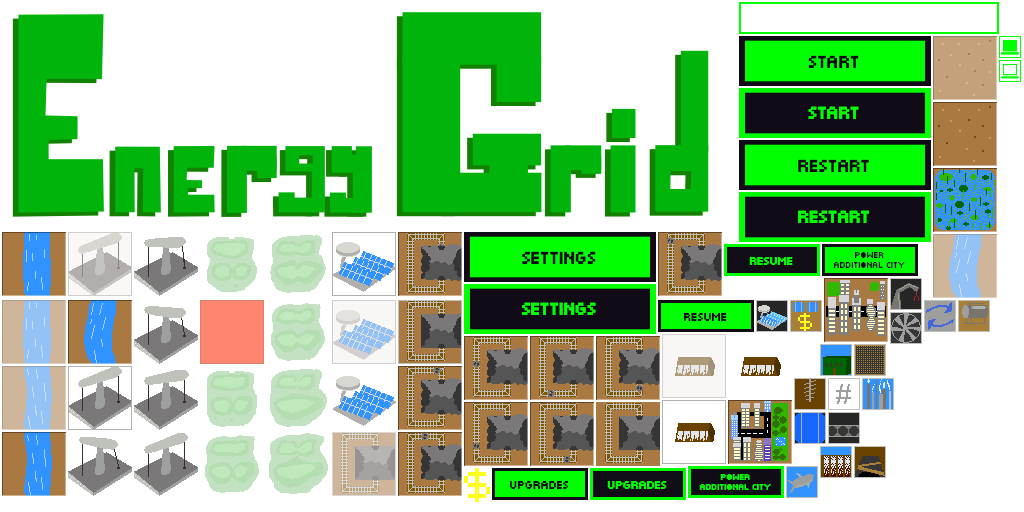
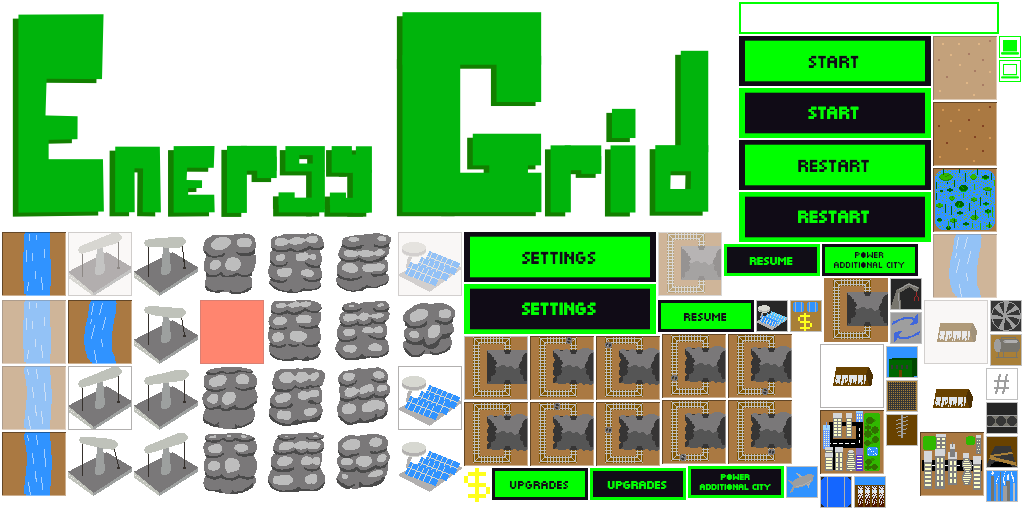
updated pollution animation

Changed region(s): [[0.1875, 0.4375, 0.4688, 0.9688], [0.625, 0.5312, 1.0, 1.0], [0.625, 0.4375, 0.7188, 0.5938]]

diff --git a/src/systems/build_gatherer.rs b/src/systems/build_gatherer.rs
@@ -1,7 +1,7 @@
 use components::ui::WalletUI;
 use components::{ui::TutorialUI, upgrade::Buff, Actions, AnimationSheet, Button, ClickSound,
                  Color, EffectedByPollutionTiles, EntityLookup, Gatherer, GathererPositions,
-                 GathererType, Input, Node, ResearchedBuffs, SelectedTile, Sprite, Text, Tile,
+                 GathererType, Input, Node, PollutedTiles, ResearchedBuffs, SelectedTile, Sprite, Text, Tile,
                  TileNodes, TileType, Transform, TutorialStep, Wallet};
 use entities::tutorial;
 use specs::{Entities, Join, Read, ReadStorage, System, Write, WriteStorage};
@@ -37,6 +37,7 @@ impl<'a> System<'a> for BuildGatherer {
         Write<'a, GathererPositions>,
         Read<'a, Input>,
         WriteStorage<'a, Node>,
+        Write<'a, PollutedTiles>,
         Read<'a, TileNodes>,
         Read<'a, ResearchedBuffs>,
         ReadStorage<'a, SelectedTile>,
@@ -63,6 +64,7 @@ impl<'a> System<'a> for BuildGatherer {
             mut gatherer_positions_storage,
             input_storage,
             mut nodes_storage,
+            mut polluted_tiles_storage,
             tile_nodes_storage,
             researched_buffs_storage,
             selected_tile_storage,
@@ -260,13 +262,22 @@ impl<'a> System<'a> for BuildGatherer {
                             if tile_type != TileType::Open {
                                 pollution += gatherer_type.get_pollution_amount();
 
+                                let selected_tile_x = selected_tile_x + (i as f32) * Tile::get_size();
+                                let selected_tile_y = selected_tile_y + (j as f32) * Tile::get_size();
+
+                                if polluted_tiles_storage.contains(&(selected_tile_x as i32, selected_tile_y as i32)) {
+                                    continue
+                                }
+
+                                polluted_tiles_storage.insert((selected_tile_x as i32, selected_tile_y as i32));
+
                                 let pollution_entity = entities.create();
                                 transform_storage
                                     .insert(
                                         pollution_entity,
                                         Transform::visible(
-                                            selected_tile_x + (i as f32) * Tile::get_size(),
-                                            selected_tile_y + (j as f32) * Tile::get_size(),
+                                            selected_tile_x,
+                                            selected_tile_y,
                                             3.0,
                                             64,
                                             64,
@@ -279,9 +290,9 @@ impl<'a> System<'a> for BuildGatherer {
                                 let mut animation = AnimationSheet::new(0.1);
                                 animation.add_animation(
                                     "default".to_string(),
-                                    [1, 2, 3, 4, 5, 6, 7, 6, 5, 4, 3, 2]
+                                    ["01", "02", "03", "04", "05", "06", "07", "08", "09", "10", "11", "12"]
                                         .iter()
-                                        .map(|n| format!("pollution_{}.png", n))
+                                        .map(|n| format!("pollution_grey_{}.png", n))
                                         .collect(),
                                 );
                                 animation.set_current_animation("default".to_string());

diff --git a/src/state/play_state.rs b/src/state/play_state.rs
@@ -1,4 +1,4 @@
-use std::collections::HashMap;
+use std::collections::{HashMap, HashSet};
 use std::path::Path;
 
 use conrod::{Ui, UiBuilder};
@@ -8,7 +8,7 @@ use state::State;
 
 use components::{ui::WalletUI, upgrade, upgrade::Buff, Button, CityPowerState, Color,
                  CurrentState, EntityLookup, GathererPositions, GatheringRate, InternalState,
-                 Node, PowerBar, Rect, ResearchedBuffs, ResearchingEntities, Resources,
+                 Node, PollutedTiles, PowerBar, Rect, ResearchedBuffs, ResearchingEntities, Resources,
                  SelectedTile, Sprite, Text, Tile, TileNodes, TileType, Transform,
                  Wallet};
 use entities::{create_map, create_power_bar, create_text, tech_tree};
@@ -211,6 +211,7 @@ impl<'a> State for PlayState<'a> {
         world.add_resource(Resources::new());
         world.add_resource(Wallet::new());
         world.add_resource(InternalState::Game);
+        world.add_resource::<PollutedTiles>(HashSet::new());
 
         let dimensions = renderer::get_dimensions();
 

diff --git a/src/components/mod.rs b/src/components/mod.rs
@@ -20,6 +20,7 @@ mod input;
 mod internal_state;
 mod menu_screen;
 mod node;
+mod polluted_tiles;
 mod power_bar;
 mod pulse;
 mod rect;
@@ -65,6 +66,7 @@ pub use self::internal_state::*;
 pub use self::menu_screen::*;
 pub use self::node::*;
 pub use self::power_bar::*;
+pub use self::polluted_tiles::*;
 pub use self::pulse::*;
 pub use self::rect::*;
 pub use self::researched_buffs::*;

diff --git a/src/components/polluted_tiles.rs b/src/components/polluted_tiles.rs
@@ -1,0 +1,3 @@
+use std::collections::HashSet;
+
+pub type PollutedTiles = HashSet<(i32, i32)>;
